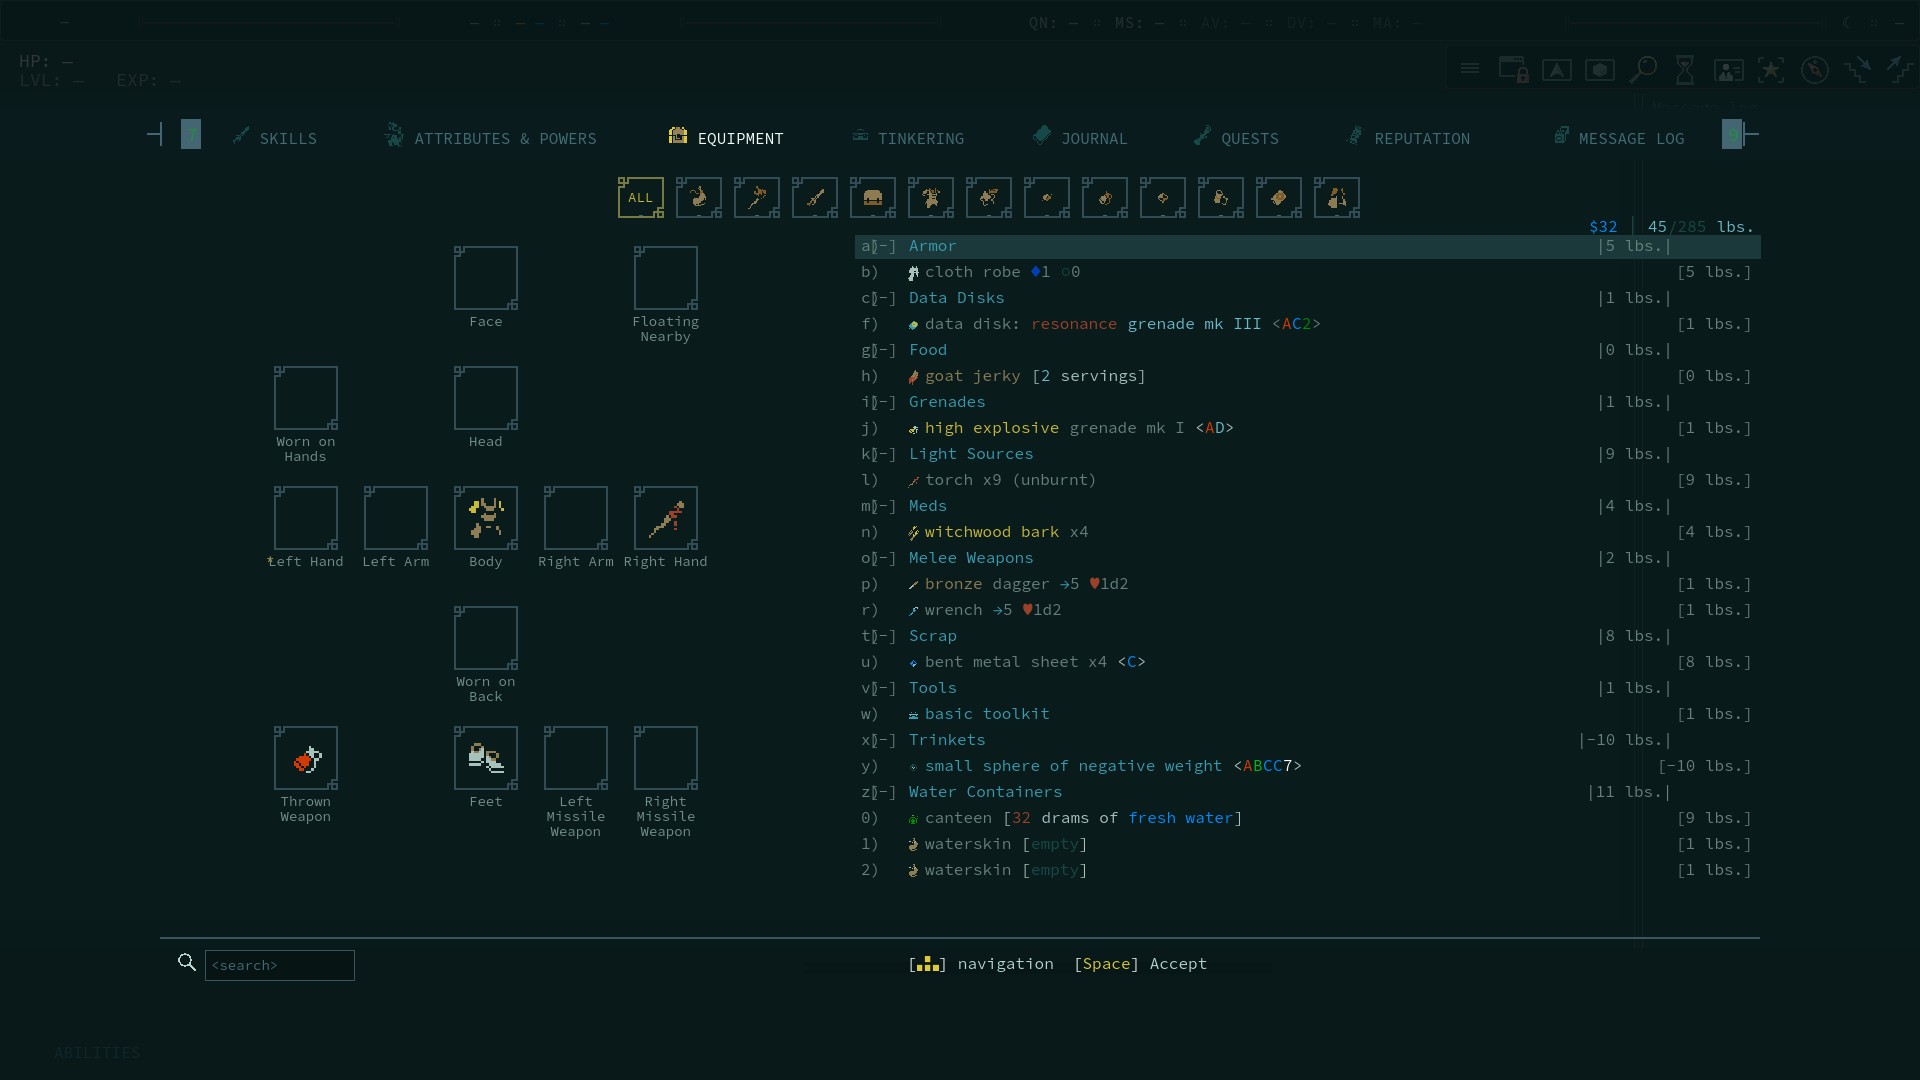
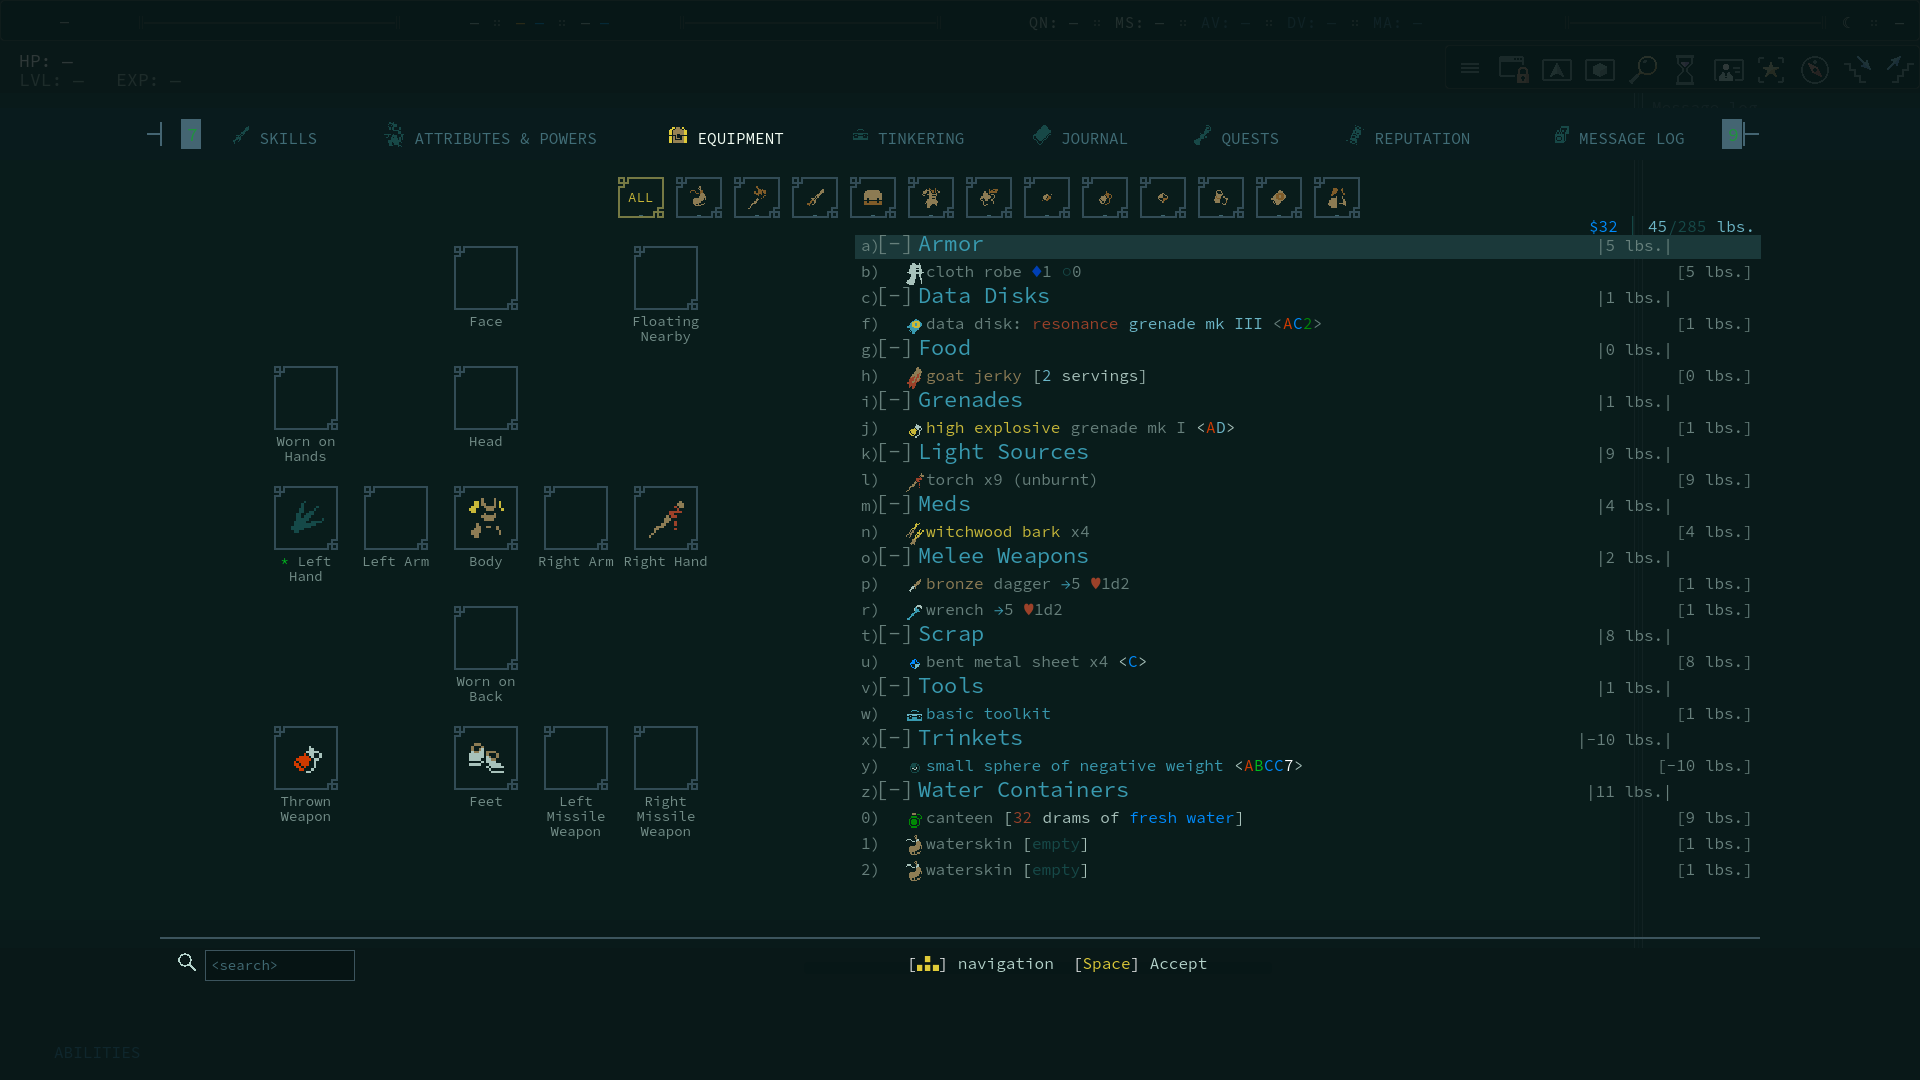
Equipment: doll label + natural weapons, list metrics, outer-frame leaf
Five fixes:

  - the primary-limb star no longer collides with the slot label. Qud builds
    ONE string, "{{G|*}}" + the cardinal description, so the star wraps and
    centres with the text instead of sitting at a fixed offset; it is also
    green rather than gold. "Left Hand" now reads "* Left" / "Hand".

  - natural weapons appear in the doll. EquipmentLine renders
    Equipped ?? DefaultBehavior, greying the latter via GreyOutForUI() --
    which just forces both tones to 'K'. A prior note here claimed Qud left
    those slots empty; that came from a parity leaf reading 0 ink, which is
    what a brightness-thresholded mask reports for a sprite painted in 'K'.
    The mutant claw is back, dark teal, as Qud draws it.

  - the collapse toggle no longer overlaps the hotkey. Qud's '[' starts at
    x880; ours was at 869, on top of the ')'.

  - list row icons are 20x30, the same law as the filter bar and the doll
    (InventoryLine.icon, left-anchored). They were 13x19.

  - the screen's outer frame is now a scored leaf (5.47).

Chasing the toggle spacing turned up the reason no column nudging could fix
it: Qud draws the list at TWO sizes. A category name advances 13.3px, an item
name 9.75px -- 22 and 16 through the 0.6*size letterspacing -- while both row
kinds share a 26px pitch. Our 16 was right for items and 35% small on the
categories. Every glyph on both row kinds now lands within 1px of Qud's.
[…]

diff --git a/mod/InventoryExporter.cs b/mod/InventoryExporter.cs
@@ -36,13 +36,17 @@ namespace RavesOfQud
             catch (Exception e) { System.Console.WriteLine("[raves] inventory export failed: " + e.Message); }
         }
 
-        private static void WriteTile(JsonWriter j, GameObject go, string context = "Inventory")
+        private static void WriteTile(JsonWriter j, GameObject go, string context = "Inventory",
+            bool grey = false)
         {
             try
             {
                 // RenderForUI returns a RenderEvent (fields, not the Renderable accessors)
                 var r = go.RenderForUI(context);
                 if (r == null) return;
+                // GreyOutForUI just forces both tones to 'K'; let QUD apply it so the
+                // resolved chars below come back already greyed
+                if (grey) { try { r = r.GreyOutForUI(); } catch { } }
                 string tile = r._Tile;
                 if (string.IsNullOrEmpty(tile)) return;
                 TileExporter.Ensure(tile);
@@ -149,21 +153,43 @@ namespace RavesOfQud
                         try { j.Member("type", bp.Type ?? ""); } catch { }
                         try { j.Member("desc", bp.GetOrdinalName() ?? ""); } catch { }
                         try { j.Member("primary", bp.Primary); } catch { }
-                        // EQUIPPED ONLY — EquipmentLine renders bp.Equipped (plus
-                        // Cybernetics), never DefaultBehavior, so a natural weapon like a
-                        // mutant claw shows NO tile in Qud's doll. Our DefaultBehavior
-                        // fallback drew a claw in a slot Qud leaves empty (parity leaf
-                        // doll_image[4]: Qud ink 1x3, ours 39x35).
+                        // EquipmentLine.setData, verbatim: the slot shows
+                        //     Equipped ?? DefaultBehavior
+                        // and when it falls through to DefaultBehavior it renders
+                        // GreyOutForUI()'d -- which is why a mutant claw appears in the
+                        // doll as a DARK TEAL ghost rather than not at all. An earlier
+                        // note here claimed Qud leaves those slots empty; that came from
+                        // a parity leaf reading 0 ink, which is what a brightness-
+                        // thresholded ink mask reports for a sprite painted in 'K'.
+                        // Qud greys the same way when an item is equipped across several
+                        // parts and this is not the FIRST of them (the off-hand of a
+                        // two-handed weapon), so mirror that too.
                         GameObject eq = null;
+                        bool greyed = false;
                         try { eq = bp.Equipped; } catch { }
                         if (eq == null) { try { eq = bp.Cybernetics; } catch { } }
+                        if (eq == null)
+                        {
+                            try { eq = bp.DefaultBehavior; greyed = eq != null; } catch { }
+                        }
+                        else
+                        {
+                            try
+                            {
+                                var on = new List<BodyPart>();
+                                bp.ParentBody.GetPartsEquippedOn(eq, on);
+                                if (on.Count > 0 && on[0] != bp) greyed = true;
+                            }
+                            catch { }
+                        }
                         if (eq != null)
                         {
                             try { j.Member("item", eq.DisplayName ?? ""); } catch { }
+                            if (greyed) j.Member("greyed", true);
                             // the PAPER DOLL uses Qud's "Equipment" render context
                             // (EquipmentLine: RenderForUI("Equipment")) — a different tile
                             // and colours than the "Inventory" context the list uses
-                            WriteTile(j, eq, "Equipment");
+                            WriteTile(j, eq, "Equipment", greyed);
                         }
                         j.EndObject();
                     }

diff --git a/mod/TitleExporter.cs b/mod/TitleExporter.cs
@@ -210,6 +210,24 @@ namespace RavesOfQud
                             }
                     }
                     catch (Exception de) { System.Console.WriteLine("[raves] doll probe: " + de.Message); }
+                    // and the INVENTORY LIST's row icon, same question again
+                    try
+                    {
+                        var ils = Resources.FindObjectsOfTypeAll<Qud.UI.InventoryLine>();
+                        if (ils != null)
+                            foreach (var il in ils)
+                            {
+                                var ii = il != null && il.icon != null ? il.icon.image : null;
+                                if (ii == null) continue;
+                                var irt = ii.rectTransform;
+                                System.Console.WriteLine("[raves] list icon rect " + irt.rect
+                                    + " anchorMin " + irt.anchorMin + " anchorMax " + irt.anchorMax
+                                    + " pivot " + irt.pivot + " scale " + irt.localScale
+                                    + " preserveAspect " + ii.preserveAspect);
+                                break;
+                            }
+                    }
+                    catch (Exception le) { System.Console.WriteLine("[raves] list probe: " + le.Message); }
                     // Unity's 9-slice borders (l,b,r,t) — the client needs these to know
                     // which pixels are corner and which stretch
                     File.WriteAllText(Path.Combine(Dir, "cell_frame.json"),

diff --git a/docs/gotchas.md b/docs/gotchas.md
@@ -238,3 +238,26 @@ add a one-liner (symptom → rule).
 - **A matching ink BBOX is not the objective.** Nudging the doll tile +1px in x made every bbox
   line up with Qud's exactly and TRIPLED the pixel diff (16 -> 52): the bbox disagreement was a
   one-column dim edge. Score on pixels; read bboxes as a diagnostic only.
+
+## Equipment tab, round two: the doll label, natural weapons, and TWO list font sizes
+
+- **The primary-limb star is part of the label string, not a separate glyph.**
+  `EquipmentLine.setData` builds `"{{G|*}}" + GetCardinalDescription()`, so the star wraps and
+  centres WITH the text. Drawing it at a fixed offset left of the cell is what made it collide
+  with a short first line ("Left Hand" put the L on top of the star). It is GREEN, not gold.
+- **`DefaultBehavior` DOES render in the doll** -- `Equipped ?? DefaultBehavior`, and when it
+  falls through it renders `GreyOutForUI()`'d, which just forces both tones to `K`. That is why
+  a mutant claw shows as a dark teal ghost. An earlier note here claimed Qud leaves those slots
+  empty; that came from a parity leaf reading 0 ink, **which is exactly what a brightness-
+  thresholded ink mask reports for a sprite painted in `K`**. A dark sprite is invisible to the
+  ink mask -- never read "0 ink" as "nothing there" without looking.
+  (Qud greys the same way when an item spans several parts and this is not the first of them.)
+- **The inventory list is drawn at TWO font sizes**, which is easy to miss because both row kinds
+  share a 26px pitch: a CATEGORY name's glyphs advance 13.3px, an ITEM name's advance 9.75px --
+  size 22 and 16 through the 0.6*size letterspacing. The hotkey column stays at 16 in both. No
+  amount of column nudging lines up a row whose glyphs are the wrong size; measure the advance of
+  a REPEATED letter ("Data" gives you three) before touching any x.
+- Row icons follow the same 20x30 law as the filter bar and the doll (`InventoryLine.icon`),
+  left-anchored rather than centred. We had them at 13x19.
+- **Glyph ink starts are not advances.** Comparing "where does the ink of `[` begin" between apps
+  measures the left bearing, not the layout; only same-character runs give a real advance.
